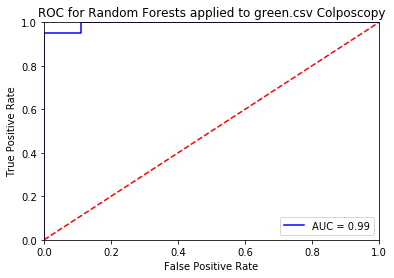
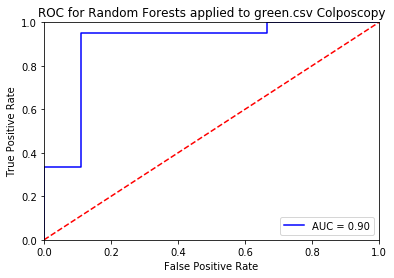
final changes and files

diff --git a/proj/Colposcopy - RandomForests.py b/proj/Colposcopy - RandomForests.py
@@ -1,4 +1,5 @@
 # import libraries
+import os
 import numpy as np
 import pandas as pd
 import matplotlib.pyplot as plt
@@ -31,8 +32,8 @@ print(schiller_data['consensus'].value_counts())
 
 def run(data, file_name):
 
-    X = data.drop('consensus', axis=1)
-    #X_no_experts = green_data.drop(['experts::0', 'experts::1', 'experts::2', 'experts::3', 'experts::4', 'experts::5', 'consensus'], axis=1)
+    #X = data.drop('consensus', axis=1)
+    X_no_experts = data.drop(['experts::0', 'experts::1', 'experts::2', 'experts::3', 'experts::4', 'experts::5', 'consensus'], axis=1)
     y = data['consensus']
     
     expert0 = data['experts::0'] 
@@ -47,7 +48,7 @@ def run(data, file_name):
     SEED = 1
     
     # separating data into train and test sets
-    X_train, X_test, y_train, y_test = train_test_split(X, y, test_size=0.3, stratify=y, random_state=SEED)
+    X_train, X_test, y_train, y_test = train_test_split(X_no_experts, y, test_size=0.3, stratify=y, random_state=SEED)
     
     
     #test random forest for diferent number of estimators
@@ -80,20 +81,45 @@ def run(data, file_name):
     col_rf_model.fit(X_train, y_train)
     y_pred = col_rf_model.predict(X_test)
     
+    exp_costs = []
+    exp_accs = []
+    
     i = 0
     for exp in experts:
         #we assume consensus at the better target thruth
         tn, fp, fn, tp = confusion_matrix(y, exp).ravel()
         print("scores for expert ", i, " :", tn, fp, fn, tp)
         
+        exp_cost = fp*1 + fn *1
         #we create simplified costs (false predict = 1) to better evaluate experts predictions
-        print("Cost of expert ", i, ": ", fp*1 + fn *1)
+        print("Cost of expert ", i, ": ", exp_cost)
+        exp_costs.append(exp_cost)
         
         #we use expert predictiions as predictions against the final consensus
-        acc_score = accuracy_score(y, exp)
-        print("scores for expert ", i, " :", acc_score, "\n")
-        
+        exp_acc = accuracy_score(y, exp)
+        print("scores for expert ", i, " :", exp_acc, "\n")
+        exp_accs.append(exp_acc)
         i += 1
+    
+    print("Mean of experts costs: ", np.mean(exp_costs))
+    print("Mean of experts accuracies: ", np.mean(exp_accs))
+    
+    fig, ax1 = plt.subplots()
+    exps = np.arange(0, 6)
+    ax1.plot(exps, exp_costs, 'b-')
+    ax1.set_xlabel('Experts')
+    # Make the y-axis label, ticks and tick labels match the line color.
+    ax1.set_ylabel('Cost', color='b')
+    ax1.tick_params('y', colors='b')
+    
+    ax2 = ax1.twinx()
+    ax2.plot(exps, exp_accs, 'r-')
+    ax2.set_ylabel('Accuracy', color='r')
+    ax2.tick_params('y', colors='r')
+    
+    fig.tight_layout()
+    plt.title( 'Experts predictions on '+ file_name + ' colposcopy' )
+    plt.show()
     
     # confusion matrix
     #tn, fp, fn, tp = confusion_matrix(y_test, y_pred).ravel()
